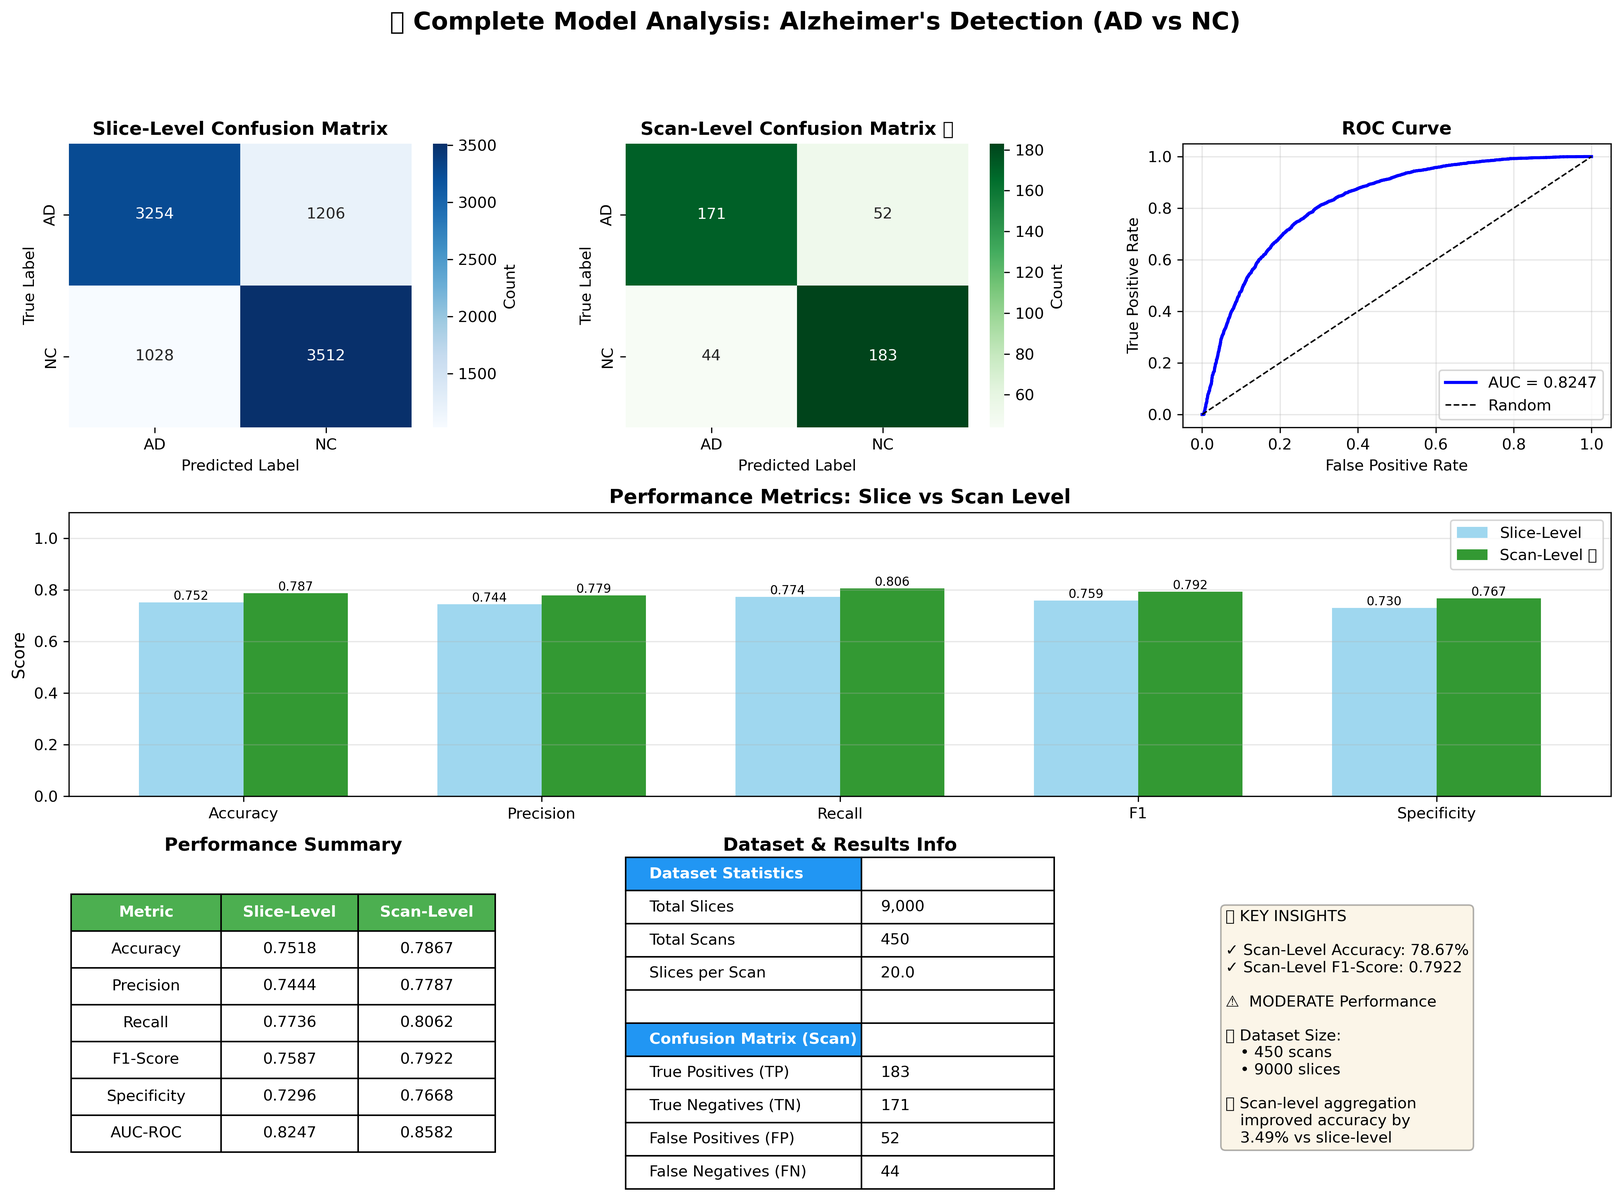
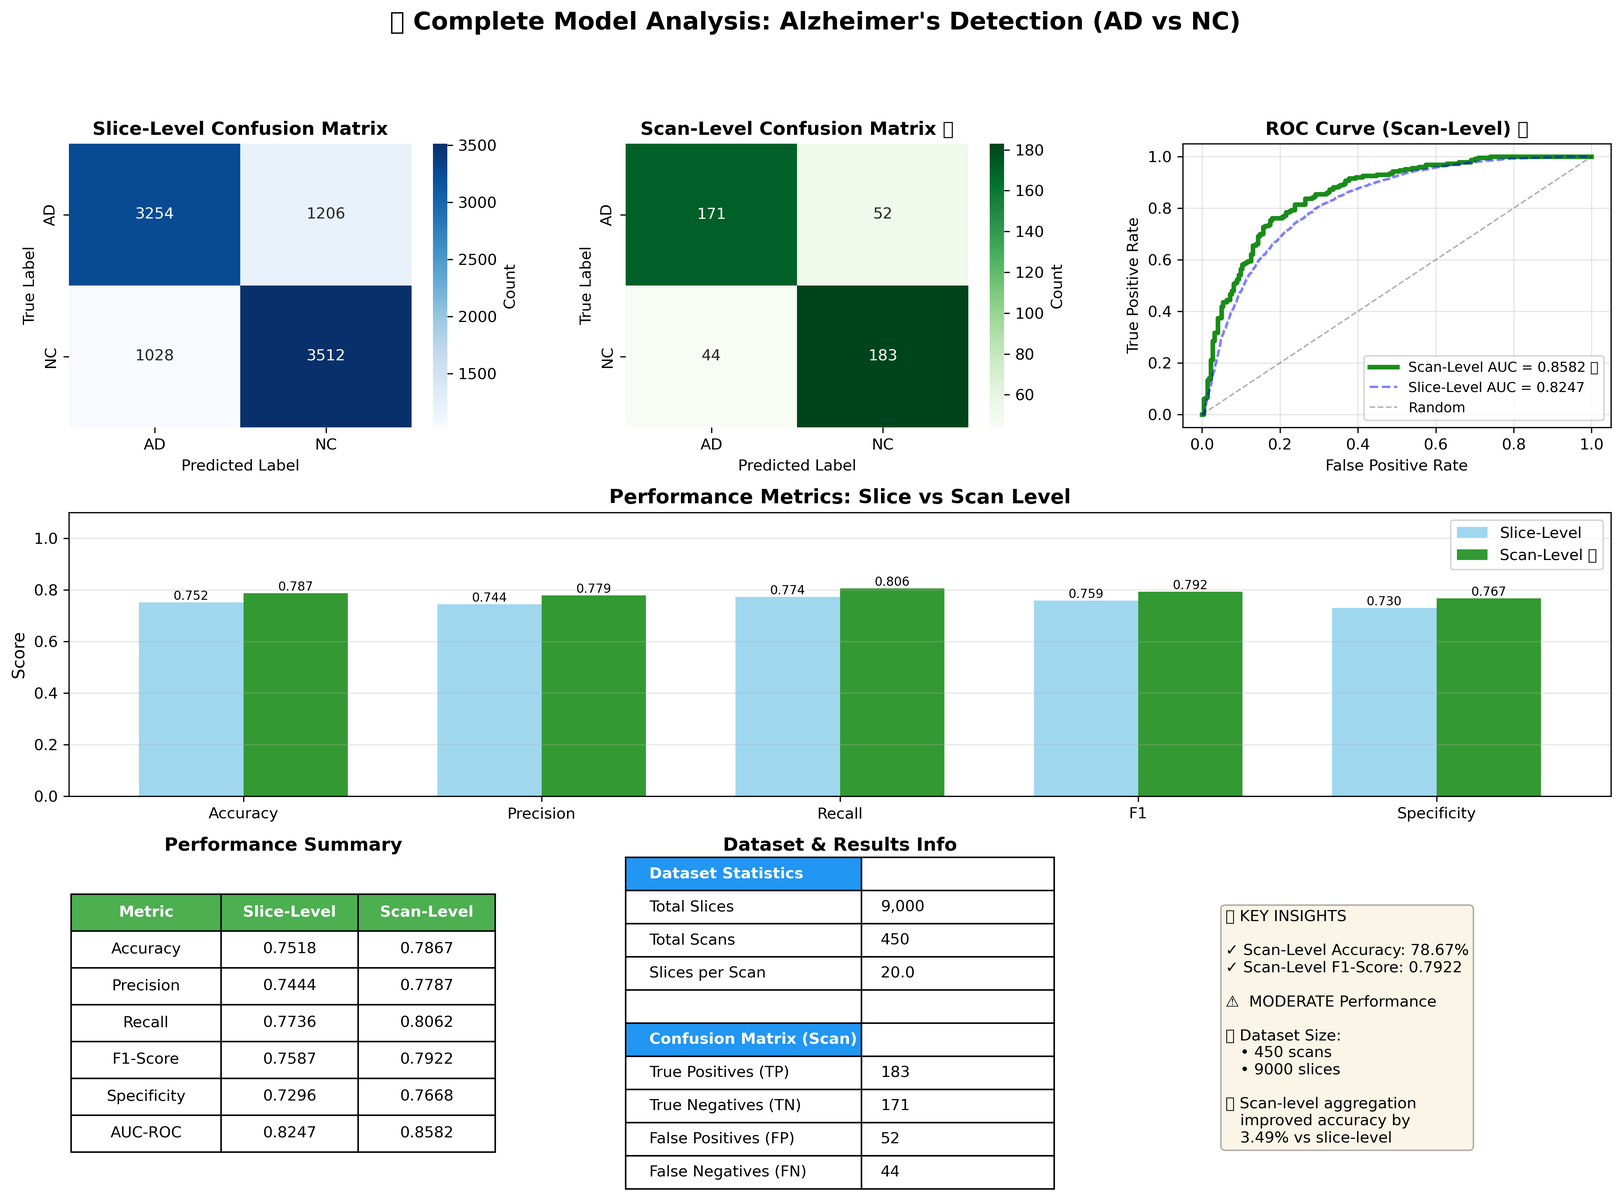
ROC in model_complete_analysis fixed to reflect both scan and slice-level

diff --git a/recognition/GFNet-s4979971/predict.py b/recognition/GFNet-s4979971/predict.py
@@ -298,6 +298,8 @@ def visualize_model_complete(model, test_loader, device, save_dir):
 def plot_misclassified_samples(test_loader, all_labels, all_preds, all_probs, all_scan_ids, save_dir, max_samples=20):
     """Plot misclassified SCANS (at scan-level after majority voting)."""
     save_dir = Path(save_dir)
+    misclassified_dir = save_dir / 'misclassified_samples'
+    misclassified_dir.mkdir(exist_ok=True)
     
     class_names = ['AD', 'NC']
     
@@ -435,16 +437,26 @@ def plot_model_complete_analysis(results, save_dir):
     ax2.set_ylabel('True Label')
     ax2.set_xlabel('Predicted Label')
     
-    # 3. ROC Curve
+    # 3. ROC Curve (SCAN-LEVEL)
     ax3 = fig.add_subplot(gs[0, 2])
-    fpr = np.array(results['roc_curve']['fpr'])
-    tpr = np.array(results['roc_curve']['tpr'])
-    ax3.plot(fpr, tpr, 'b-', linewidth=2, label=f'AUC = {slice_metrics["roc_auc"]:.4f}')
-    ax3.plot([0, 1], [0, 1], 'k--', linewidth=1, label='Random')
+    
+    # Plot scan-level ROC (primary)
+    scan_fpr = np.array(results['roc_curve_scan']['fpr'])
+    scan_tpr = np.array(results['roc_curve_scan']['tpr'])
+    scan_auc_val = results['roc_curve_scan']['auc']
+    ax3.plot(scan_fpr, scan_tpr, 'g-', linewidth=3, label=f'Scan-Level AUC = {scan_auc_val:.4f} ⭐', alpha=0.9)
+    
+    # Plot slice-level ROC (reference)
+    slice_fpr = np.array(results['roc_curve_slice']['fpr'])
+    slice_tpr = np.array(results['roc_curve_slice']['tpr'])
+    slice_auc_val = results['roc_curve_slice']['auc']
+    ax3.plot(slice_fpr, slice_tpr, 'b--', linewidth=1.5, label=f'Slice-Level AUC = {slice_auc_val:.4f}', alpha=0.5)
+    
+    ax3.plot([0, 1], [0, 1], 'k--', linewidth=1, label='Random', alpha=0.3)
     ax3.set_xlabel('False Positive Rate')
     ax3.set_ylabel('True Positive Rate')
-    ax3.set_title('ROC Curve', fontweight='bold', fontsize=12)
-    ax3.legend()
+    ax3.set_title('ROC Curve (Scan-Level) ⭐', fontweight='bold', fontsize=12)
+    ax3.legend(fontsize=9)
     ax3.grid(True, alpha=0.3)
     
     # 4. Metrics Comparison (Slice vs Scan)
@@ -499,7 +511,7 @@ def plot_model_complete_analysis(results, save_dir):
         ['Recall', f"{slice_metrics['recall']:.4f}", f"{scan_metrics['recall']:.4f}"],
         ['F1-Score', f"{slice_metrics['f1']:.4f}", f"{scan_metrics['f1']:.4f}"],
         ['Specificity', f"{slice_metrics['specificity']:.4f}", f"{scan_metrics['specificity']:.4f}"],
-        ['AUC-ROC', f"{slice_metrics['roc_auc']:.4f}", f"{scan_metrics['roc_auc']:.4f}" if scan_metrics['roc_auc'] else 'N/A']
+        ['AUC-ROC', f"{slice_metrics['roc_auc']:.4f}", f"{scan_metrics['roc_auc']:.4f}"]
     ]
     
     table = ax5.table(cellText=summary_data, cellLoc='center', loc='center',
@@ -562,7 +574,7 @@ def plot_model_complete_analysis(results, save_dir):
     elif scan_acc >= 0.80:
         insights_text += "✅ GOOD Performance!\n"
     elif scan_acc >= 0.70:
-        insights_text += "⚠ MODERATE Performance\n"
+        insights_text += "⚠  MODERATE Performance\n"
     else:
         insights_text += "❌ Needs Improvement\n"
     
@@ -673,6 +685,11 @@ def evaluate_model(model, test_loader, device):
     print(f"⭐ MAIN METRIC: Scan-Level Accuracy = {scan_metrics['scan_accuracy']*100:.2f}%")
     print("="*60)
     
+    # Calculate SCAN-LEVEL ROC curve
+    scan_preds_df = scan_metrics['scan_predictions']
+    scan_fpr, scan_tpr, _ = roc_curve(scan_preds_df['y_true'], scan_preds_df['y_prob'])
+    scan_roc_auc = auc(scan_fpr, scan_tpr)
+    
     # SAVE RESULTS
     results = {
         'slice_level': {
@@ -691,13 +708,19 @@ def evaluate_model(model, test_loader, device):
             'recall': float(scan_metrics['scan_recall']),
             'f1': float(scan_metrics['scan_f1']),
             'specificity': float(scan_metrics['scan_specificity']),
-            'roc_auc': float(scan_metrics['scan_auc']) if scan_metrics['scan_auc'] else None,
+            'roc_auc': float(scan_roc_auc),
             'confusion_matrix': scan_metrics['scan_confusion_matrix'].tolist(),
             'num_scans': scan_metrics['num_scans']
         },
-        'roc_curve': {
+        'roc_curve_slice': {
             'fpr': fpr.tolist(),
-            'tpr': tpr.tolist()
+            'tpr': tpr.tolist(),
+            'auc': float(slice_roc_auc)
+        },
+        'roc_curve_scan': {
+            'fpr': scan_fpr.tolist(),
+            'tpr': scan_tpr.tolist(),
+            'auc': float(scan_roc_auc)
         }
     }
     
@@ -721,6 +744,14 @@ def evaluate_model(model, test_loader, device):
     # Plot model frequency analysis
     visualize_model_complete(model, test_loader, device, save_dir)
     
+    # Individual plots
+    plot_confusion_matrix(slice_cm, save_dir / 'confusion_matrix_slice_level.png', 
+                         title='Slice-Level Confusion Matrix')
+    plot_confusion_matrix(scan_metrics['scan_confusion_matrix'], 
+                         save_dir / 'confusion_matrix_scan_level.png',
+                         title='Scan-Level Confusion Matrix (Majority Voting)')
+    plot_roc_curve(fpr, tpr, slice_roc_auc, save_dir / 'roc_curve.png')
+    
     # Classification report
     class_names = ['AD', 'NC']
     scan_preds = scan_metrics['scan_predictions']
@@ -734,6 +765,51 @@ def evaluate_model(model, test_loader, device):
     print(f"\n✓ All results saved to: {save_dir}")
     
     return results, all_labels, all_preds, all_probs
+
+
+def plot_confusion_matrix(cm, save_path, title='Confusion Matrix'):
+    """Plot and save confusion matrix."""
+    plt.figure(figsize=(8, 6))
+    sns.heatmap(cm, annot=False, fmt='d', cmap='Greens',
+                xticklabels=['AD', 'NC'], yticklabels=['AD', 'NC'],
+                cbar_kws={'label': 'Count'})
+    plt.ylabel('True Label')
+    plt.xlabel('Predicted Label')
+    plt.title(title)
+    
+    cm_percent = cm.astype('float') / cm.sum(axis=1)[:, np.newaxis] * 100
+    labels = np.array([['TP', 'FN'], ['FP', 'TN']])
+
+    for i in range(cm.shape[0]):
+        for j in range(cm.shape[1]):
+            plt.text(j + 0.5, i + 0.5, f"{labels[i, j]}\n{cm[i, j]}\n({cm_percent[i, j]:.1f}%)",
+                 ha='center', va='center', fontsize=11, 
+                 color='white' if cm[i, j] > cm.max() / 2 else 'black')
+    
+    plt.tight_layout()
+    plt.savefig(save_path, dpi=300)
+    plt.close()
+    print(f"  ✓ {save_path.name}")
+
+
+def plot_roc_curve(fpr, tpr, roc_auc, save_path):
+    """Plot and save ROC curve."""
+    plt.figure(figsize=(8, 6))
+    plt.plot(fpr, tpr, color='darkorange', lw=2,
+             label=f'ROC curve (AUC = {roc_auc:.4f})')
+    plt.plot([0, 1], [0, 1], color='navy', lw=2, linestyle='--', label='Random')
+    plt.xlim([0.0, 1.0])
+    plt.ylim([0.0, 1.05])
+    plt.xlabel('False Positive Rate')
+    plt.ylabel('True Positive Rate')
+    plt.title('ROC Curve: Alzheimer\'s Detection')
+    plt.legend(loc="lower right")
+    plt.grid(True, alpha=0.3)
+    plt.tight_layout()
+    plt.savefig(save_path, dpi=300)
+    plt.close()
+    print(f"  ✓ {save_path.name}")
+
 
 def main():
     """Main evaluation and prediction pipeline."""
@@ -780,12 +856,14 @@ def main():
     print("\n" + "="*60)
     print("✓ Complete! Check the following files:")
     print("="*60)
-    print("  📊 model_complete_analysis.png - Performance metrics analysis")
+    print("  📊 model_complete_analysis.png - Full performance analysis")
+    print("       ↳ Includes: Confusion matrices, ROC curve, all metrics")
     print("  🔬 model_frequency_analysis.png - Learned filters & features")
-    print("  🔍 misclassified_samples_scan_level.png - Misclassified scans")
-    print("  📋 test_results.json - Detailed metrics")
+    print("  🔍 misclassified_samples_scan_level.png - Misclassified SCANS")
+    print("  📋 test_results.json - Detailed metrics (JSON)")
     print("  📝 scan_predictions.csv - Per-scan predictions")
     print("  📝 misclassified_scans_list.csv - Misclassified scans details")
+    print("  📄 classification_report_scan_level.txt - Text report")
     print("="*60)
 
 

diff --git a/recognition/GFNet-s4979971/README.md b/recognition/GFNet-s4979971/README.md
@@ -268,6 +268,20 @@ The distinction between slice-level and scan-level predictions informs our train
 * Mixup is applied at the slice level to help the model generalize better.
 * Early stopping is monitored at the slice level to prevent overfitting, while scan-level performance guides final model selection.
 
+### Evaluation
+After training, the model is evaluated at both slice-level and scan-level to assess its performance comprehensively.
+
+**Slice-Level Evaluation**\
+Each MRI slice is independently classified as AD or NC. Metrics such as accuracy, precision, recall, F1-score, specificity, and ROC-AUC are computed for all slices. Slice-level evaluation highlights the model’s ability to detect local anatomical patterns, though individual slices may contain subtle or ambiguous markers, particularly in early-stage cases.
+
+**Scan-Level Evaluation**\
+Slice-level predictions are aggregated to obtain scan-level classifications using majority voting. This captures the overall diagnostic decision per scan and typically improves performance by reducing the influence of ambiguous slices. Scan-level metrics mirror those at the slice level and include confusion matrices and ROC-AUC curves.
+
+**Visual Analysis**\
+* Misclassified scans are visualised to identify patterns in errors. 
+* Comprehensive visualisations include confusion matrices, performance metric comparisons, ROC curves
+* Model frequency analysis showing learned filters, feature maps, and attention patterns.
+
 ## Results
 ⚠ Note: Results are not fully reproducible due to missing random seed control. Running the same training may produce results varying by ±1%.
 
@@ -275,7 +289,7 @@ The trained PGFNet model is evaluated using both slice-level and scan-level metr
 
 The PGFNet BASE model achieves a scan-level accuracy of 78.67%, with slice-level accuracy at 75.18%.
 
-**Training History**
+### Training History
 ![Training History](images/training_history.png "Training History")
 
 The training curves reveal several important patterns about model behavior and learning characteristics. The model demonstrates early convergence, with scan-level accuracy plateating at 75-78% around epoch 20 despite continuing to train for 60 epochs. This early plateau suggests that the model has learned the main discriminative features quickly but lacks the capacity or optimisation strategy to push beyond this threshold. After epoch 30, a significant train-validation gap emerges, with training loss continuing to decrease from 0.5 to 0.36 while validation loss increases and becomes unstable, reaching peaks of 0.82. This widening gap is a clear indicator of overfitting, where the model begins to memorize training examples rather than learning generalizable patterns. Despite the validation loss instability between epochs 30-60, the scan accuracy remains relatively stable, suggesting that while the model's confidence calibration degrades, its prediction consistency is maintained through majority voting across slices.
@@ -288,7 +302,32 @@ The optimization strategy shows clear signs of getting stuck in local minima, wi
 
 However, in practice, the learning rate appeared roughly constant after warmup. This happens because the min_lr / learning_rate ratio is very small (1e-7 / 5e-5 = 0.02), and the cosine decay starts near 1.0, so the decay is very slow over the number of training steps, especially early in training. As a result, the optimizer continues taking relatively large steps, limiting fine-tuning near local minima and contributing to the plateau in performance.
 
+### Complete Analysis
+![Complete Analysis](images/model_complete_analysis.png "Complete Analysis")
 
+**Confusion Matrix**\
+The scan-level confusion matrix reveals important patterns in the model's prediction behavior. For Alzheimer's Disease cases, the model correctly identifies 171 out of 223 cases (True Positives) with a recall of 80.62%, meaning it successfully detects approximately 4 out of 5 AD patients. However, it misclassifies 52 AD cases as Normal Control (False Negatives), representing a 23.3% miss rate that could have serious clinical implications as these patients would not receive early intervention. For Normal Control cases, the model correctly identifies 183 out of 227 cases (True Negatives) with a specificity of 76.68%, but incorrectly flags 44 healthy individuals as having AD (False Positives). This relatively balanced error distribution (52 FN vs 44 FP) suggests the model does not exhibit strong bias toward either class, though the slightly higher false negative rate indicates a tendency to under-diagnose AD in ambiguous cases.
+
+The slice-level confusion matrix shows a similar pattern but with lower overall accuracy, demonstrating why scan-level aggregation is crucial. At the slice level, the model achieves 3,254 true AD predictions and 3,512 true NC predictions, but makes 1,206 false negative errors and 1,028 false positive errors. The higher number of slice-level false negatives compared to scan-level illustrates how individual slice predictions can be noisy, but majority voting across slices successfully filters out much of this noise to produce more reliable scan-level diagnoses.
+
+**ROC Curve**\
+The ROC curve (Receiver Operating Characteristic) is an essential diagnostic tool for evaluating medical classification models. It plots the true positive rate (sensitivity) against the false positive rate (1 - specificity) at various decision thresholds, providing a comprehensive view of the model’s ability to discriminate between Alzheimer’s Disease (AD) and Normal Control (NC) cases.
+
+Unlike accuracy, which depends on a fixed threshold, the ROC curve shows performance across all thresholds, making it particularly valuable for imbalanced or ambiguous medical datasets where the cost of false negatives (missed diagnoses) is high. The Area Under the ROC Curve (AUC) quantifies this performance, where an AUC closer to 1.0 indicates a strong ability to distinguish between AD and NC, while 0.5 suggests random guessing.
+
+The ROC curve visualization displays both slice-level (AUC = 0.8247, dashed line) and scan-level (AUC = 0.8582, solid green line) performance, providing a clear comparison of discriminative ability at different aggregation levels. Both curves perform substantially better than random chance (diagonal dashed line), with the scan-level curve consistently dominating the slice-level curve across all false positive rates, demonstrating the benefit of majority voting aggregation. The scan-level curve shows particularly strong performance in the critical low false-positive region (0-0.2 FPR), where it achieves approximately 60-70% true positive rate while maintaining very low false positives—an ideal characteristic for a screening tool. The smooth, convex shape of both curves without significant irregularities suggests stable model predictions across different probability thresholds.
+
+The scan-level AUC of 0.8582 means that if we randomly select one AD scan and one NC scan, the model correctly ranks the AD scan as more likely diseased 85.82% of the time. However, as highlighted in a study[^5], a high AUC alone does not guarantee clinical usefulness: it does not capture the absolute error rates, misclassification costs, or the distribution of borderline/early-stage cases. Additional metrics like sensitivity, specificity, and precision‑recall trade-offs are critical to understanding the model’s practical performance in real-world diagnostic settings.
+
+**Performance Metrics**\
+Across all metrics, scan-level performance consistently exceeds slice-level performance, validating the majority voting approach. Accuracy improves from 75.18% to 78.67% (+3.49%), precision increases from 74.44% to 77.87% (+3.43%), recall rises from 77.36% to 80.62% (+3.26%), and F1 score gains from 75.87% to 79.22% (+3.35%). Interestingly, specificity shows a smaller improvement from 72.96% to 76.68% (+3.72%), and actually remains the weakest metric at the scan level, suggesting the model has more difficulty correctly identifying healthy controls than AD patients. The AUC-ROC also improves from 0.8247 to 0.8582 (+3.35%), indicating better separation between classes when predictions are aggregated. This consistent 3-4% improvement across all metrics demonstrates that the model's slice-level predictions, while individually noisy, contain reliable signal that becomes apparent when combined through majority voting.
+
+### Model Frequency Analysis
+![Model Frequency Analysis ](images/model_frequency_analysis.png "Model Frequency Analysis")
+
+
+### Misclassified Samples
+![Misclassified Samples](images/misclassified_samples_scan_level.png "Misclassified Samples")
 
 
 
@@ -352,7 +391,7 @@ use_mixup=True
 mixup_alpha=0.2
 
 # Options
-use_amp=True                    # Automatic Mixed Precision
+use_amp=True                   
 use_class_weights=False
 
 # Data
@@ -384,15 +423,19 @@ recognition/
 
 ## References - TBC
 1. Barkhof, F., Hazewinkel, M., Binnewijzend, M., & Smithuis, R. (2022, March 3). Dementia - role of MRI. Radiology Assistant. https://radiologyassistant.nl/neuroradiology/dementia/role-of-mri 
-2. Islam, T., Hafiz, Md. S., Jim, J. R., Kabir, Md. M., & Mridha, M. F. (2024, June 5). Https://www.sciencedirect.com/science/article/abs/pii/S1047847720300046?via=ihub. Science Direct. https://www.med.upenn.edu/pmi/events/https-www-sciencedirect-com-science-article-abs-pii-s1047847720300046-via-3dihub 
-3. Johnson, K. A., Fox, N. C., Sperling, R. A., & Klunk, W. E. (2012, April). Brain Imaging in alzheimer disease. Cold Spring Harbor perspectives in medicine. https://pmc.ncbi.nlm.nih.gov/articles/PMC3312396 
-4. Krishnapriya, S., & Karuna, Y. (2023, April 20). Pre-trained deep learning models for brain MRI image classification. Frontiers in human neuroscience. https://pmc.ncbi.nlm.nih.gov/articles/PMC10157370/ 
-5. Mayo Foundation for Medical Education and Research. (2024, November 8). Alzheimer’s disease. Mayo Clinic. https://www.mayoclinic.org/diseases-conditions/alzheimers-disease/symptoms-causes/syc-20350447 
-6. Rao, Y., Zhao, W., Zhu, Z., Lu, J., & Zhou, J. (2021, October 26). Global Filter Networks for Image Classification. arXiv.org. https://arxiv.org/abs/2107.00645 
-7. Safdar, M. F., Alkobaisi, S. S., & Zahra, F. T. (2020, March). A comparative analysis of data augmentation approaches for Magnetic Resonance Imaging (MRI) scan images of brain tumor. PubMed Central. https://pmc.ncbi.nlm.nih.gov/articles/PMC7085309/ 
-8. Zhang, K., Wang,  eidong, Cui, Y., LV, Z., & Fan, Y. (2024, January). GFNet: A pioneering approach for precisely estimating ash content in coal through the fusion of graph convolution and feedforward network. Science Direct. https://www.med.upenn.edu/pmi/events/https-www-sciencedirect-com-science-article-abs-pii-s1047847720300046-via-3dihub 
+2. Inglese, M., Patel, N., Linton-Reid, K., Loreto, F., Win, Z., Perry, R. J., Carswell, C., Grech-Sollars, M., Crum, W. R., Lu, H., Malhotra, P. A., & Aboagye, E. O. (2022a, June 20). A predictive model using the mesoscopic architecture of the living brain to detect alzheimer’s disease. Communications Medicine. https://www.nature.com/articles/s43856-022-00133-4 
+3. Inglese, M., Patel, N., Linton-Reid, K., Loreto, F., Win, Z., Perry, R. J., Carswell, C., Grech-Sollars, M., Crum, W. R., Lu, H., Malhotra, P. A., & Aboagye, E. O. (2022b, June 20). A predictive model using the mesoscopic architecture of the living brain to detect alzheimer’s disease. Communications Medicine. https://www.nature.com/articles/s43856-022-00133-4 
+4. Islam, T., Hafiz, Md. S., Jim, J. R., Kabir, Md. M., & Mridha, M. F. (2024, June 5). Https://www.sciencedirect.com/science/article/abs/pii/S1047847720300046?via=ihub. Science Direct. https://www.med.upenn.edu/pmi/events/https-www-sciencedirect-com-science-article-abs-pii-s1047847720300046-via-3dihub 
+5. Johnson, K. A., Fox, N. C., Sperling, R. A., & Klunk, W. E. (2012, April). Brain Imaging in alzheimer disease. Cold Spring Harbor perspectives in medicine. https://pmc.ncbi.nlm.nih.gov/articles/PMC3312396 
+6. Krishnapriya, S., & Karuna, Y. (2023, April 20). Pre-trained deep learning models for brain MRI image classification. Frontiers in human neuroscience. https://pmc.ncbi.nlm.nih.gov/articles/PMC10157370/ 
+7. Mayo Foundation for Medical Education and Research. (2024, November 8). Alzheimer’s disease. Mayo Clinic. https://www.mayoclinic.org/diseases-conditions/alzheimers-disease/symptoms-causes/syc-20350447 
+8. Rao, Y., Zhao, W., Zhu, Z., Lu, J., & Zhou, J. (2021, October 26). Global Filter Networks for Image Classification. arXiv.org. https://arxiv.org/abs/2107.00645 
+9. Safdar, M. F., Alkobaisi, S. S., & Zahra, F. T. (2020, March). A comparative analysis of data augmentation approaches for Magnetic Resonance Imaging (MRI) scan images of brain tumor. PubMed Central. https://pmc.ncbi.nlm.nih.gov/articles/PMC7085309/ 
+10. Smucny, J., Shi, G., Lesh, T. A., Carter, C. S., & Davidson, I. (2022, September 30). Https://www.sciencedirect.com/science/article/abs/pii/S1047847720300046?via=ihub. Science Direct. https://www.med.upenn.edu/pmi/events/https-www-sciencedirect-com-science-article-abs-pii-s1047847720300046-via-3dihub 
+11. Zhang, K., Wang,  eidong, Cui, Y., LV, Z., & Fan, Y. (2024, January). GFNet: A pioneering approach for precisely estimating ash content in coal through the fusion of graph convolution and feedforward network. Science Direct. https://www.med.upenn.edu/pmi/events/https-www-sciencedirect-com-science-article-abs-pii-s1047847720300046-via-3dihub 
 
 [^1]: https://pmc.ncbi.nlm.nih.gov/articles/PMC7085309/
 [^2]: https://www.sciencedirect.com/science/article/pii/S0952197623014859
-[^3]: https://www.sciencedirect.com/science/article/pii/S2213158222002790(to add ref)
-[^4]: https://www.nature.com/articles/s43856-022-00133-4(to add ref)
+[^3]: https://www.sciencedirect.com/science/article/pii/S2213158222002790
+[^4]: https://www.nature.com/articles/s43856-022-00133-4
+[^5]: https://pmc.ncbi.nlm.nih.gov/articles/PMC12260203/
